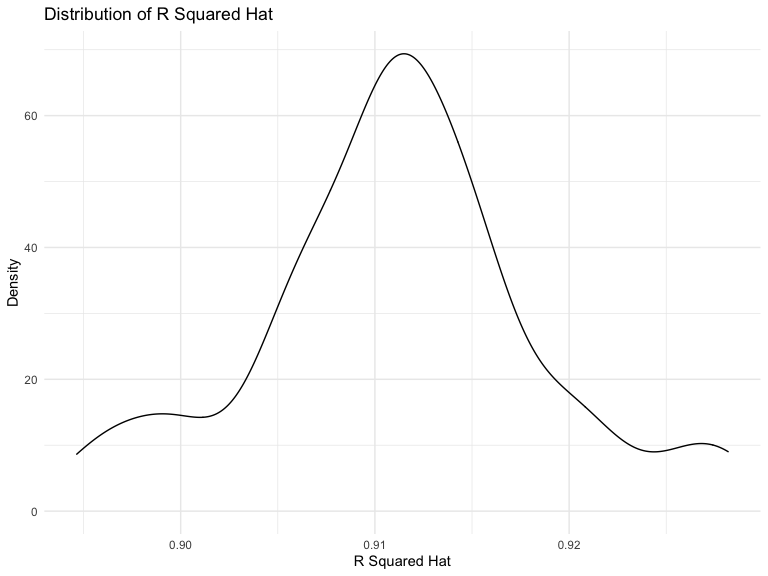
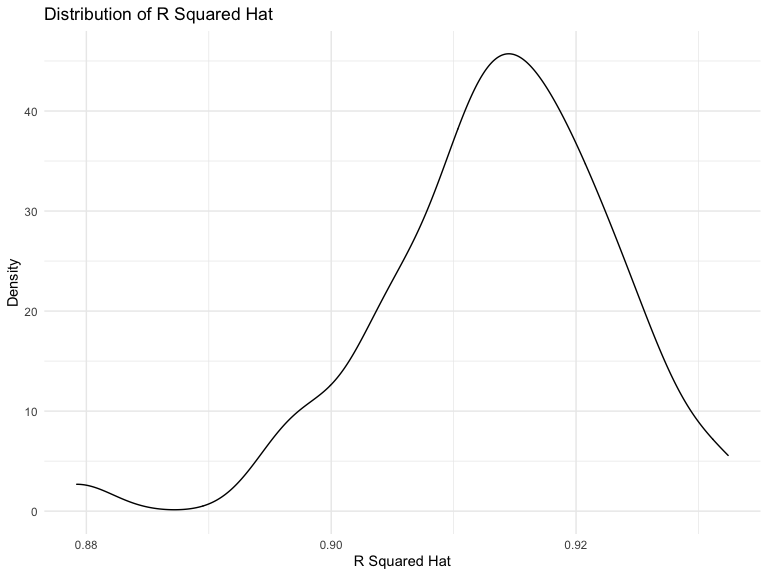
Finished P3

diff --git a/p8105_hw6_cl4044.md b/p8105_hw6_cl4044.md
@@ -341,8 +341,8 @@ bootstrap_results %>%
 
 | term        | boot\_mean | boot\_se | r\_squared\_mean | r\_squared\_sd |
 | :---------- | ---------: | -------: | ---------------: | -------------: |
-| (Intercept) |      7.224 |    0.251 |            0.911 |          0.007 |
-| tmin        |      1.041 |    0.015 |            0.911 |          0.007 |
+| (Intercept) |      7.165 |    0.254 |            0.913 |           0.01 |
+| tmin        |      1.041 |    0.014 |            0.913 |           0.01 |
 
 The table above showed the mean of estimate, the standard deviation of
 estimate and mean of rsquared after bootstrap 5000 times.
@@ -367,11 +367,14 @@ the standard error of 0.009.
 Plot the distribution graph of log(beta0 hat \* beta1 hat).
 
 ``` r
-bootstrap_results %>% 
+bootstrap_results_log =
+  bootstrap_results %>% 
   mutate(term = recode(term, '(Intercept)' = 'intercept')) %>%
   pivot_wider(names_from = term, values_from = estimate) %>%
-  mutate(log_beta = log(intercept*tmin)) %>%
-  ggplot(aes(x = r.squared)) +
+  mutate(log_coef_intereaction = log(intercept*tmin))
+
+bootstrap_results_log %>%
+  ggplot(aes(x = log_coef_intereaction)) +
   geom_density() +
   labs(
     title = "Distribution of log(beta0 hat * beta1 hat)",
@@ -383,22 +386,38 @@ bootstrap_results %>%
 <img src="p8105_hw6_cl4044_files/figure-gfm/unnamed-chunk-15-1.png" width="90%" />
 
 ``` r
-bootstrap_results %>% 
-  mutate(term = recode(term, '(Intercept)' = 'intercept')) %>%
-  pivot_wider(names_from = term, values_from = estimate) %>%
-  mutate(log_beta = log(intercept*tmin)) %>%
-  summarize(inter_mean = mean(log_beta),
-            inter_se = sd(log_beta)) %>%
+bootstrap_results_log %>%
+  summarize(intersection_mean = mean(log_coef_intereaction),
+            intersection_se = sd(log_coef_intereaction)) %>%
   knitr::kable(digits = 3)
 ```
 
-| inter\_mean | inter\_se |
-| ----------: | --------: |
-|       2.017 |     0.024 |
+| intersection\_mean | intersection\_se |
+| -----------------: | ---------------: |
+|              2.008 |            0.028 |
 
 The distribution of log(beta0 hat \* beta1 hat). is approximately
 normal, with the mean 2.013 and the standard error of 0.024.
 
 Using the 5000 bootstrap estimates, identify the 2.5% and 97.5%
 quantiles to provide a 95% confidence interval for r^2 and log(beta0 hat
-\* beta1 hat).
+\* beta1 hat):
+
+``` r
+tibble(
+  quantile = c("2.5 %", "97.5 %"),
+  'r.squared' = quantile(bootstrap_results_log$r.squared, c(0.025,0.975)),
+  'log.muti.beta' = quantile(bootstrap_results_log$log_coef_intereaction, c(0.025,0.975))
+) %>%
+   knitr::kable(digits = 3)
+```
+
+| quantile | r.squared | log.muti.beta |
+| :------- | --------: | ------------: |
+| 2.5 %    |     0.896 |         1.957 |
+| 97.5 %   |     0.929 |         2.060 |
+
+The 95% confidence interval for r^2 is 0.8958802, 0.9292654.
+
+The 95% confidence interval for log(beta0 hat \* beta1 hat) is (0.8530,
+0.8945).
